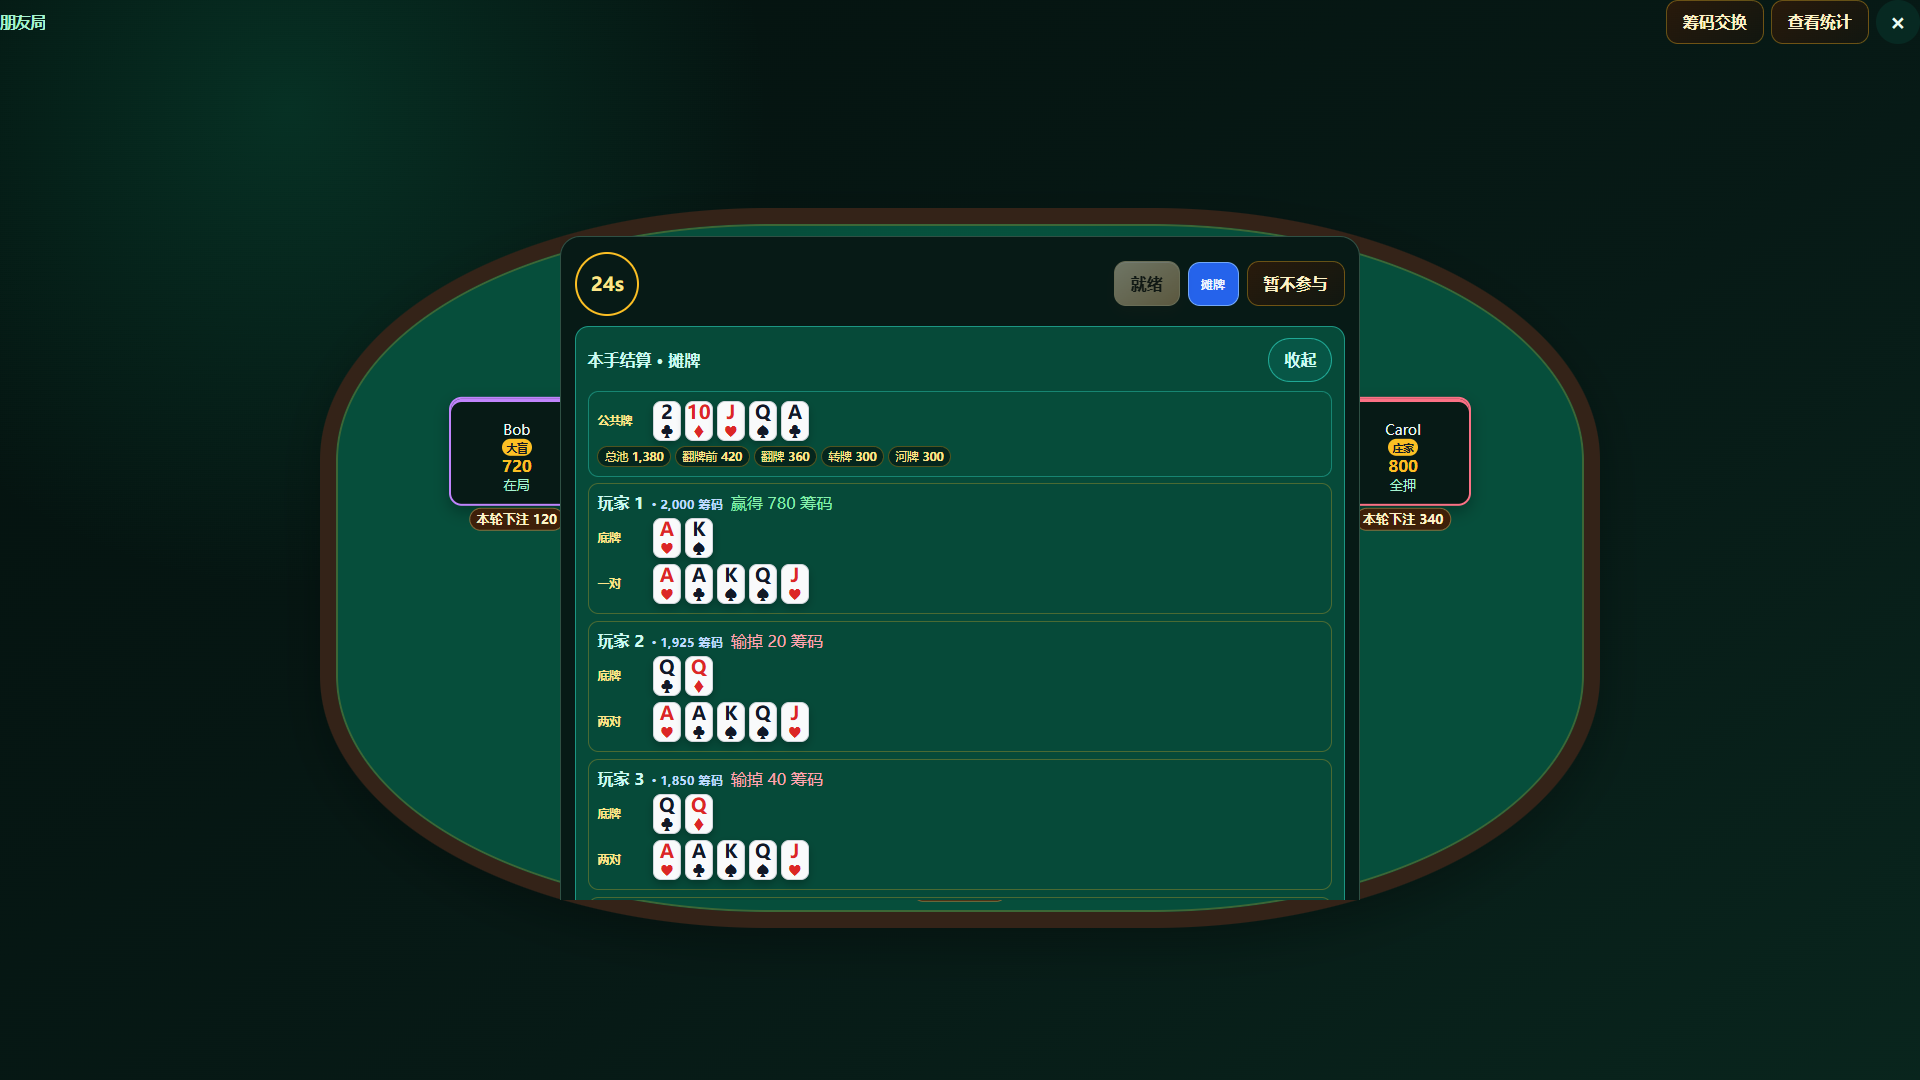
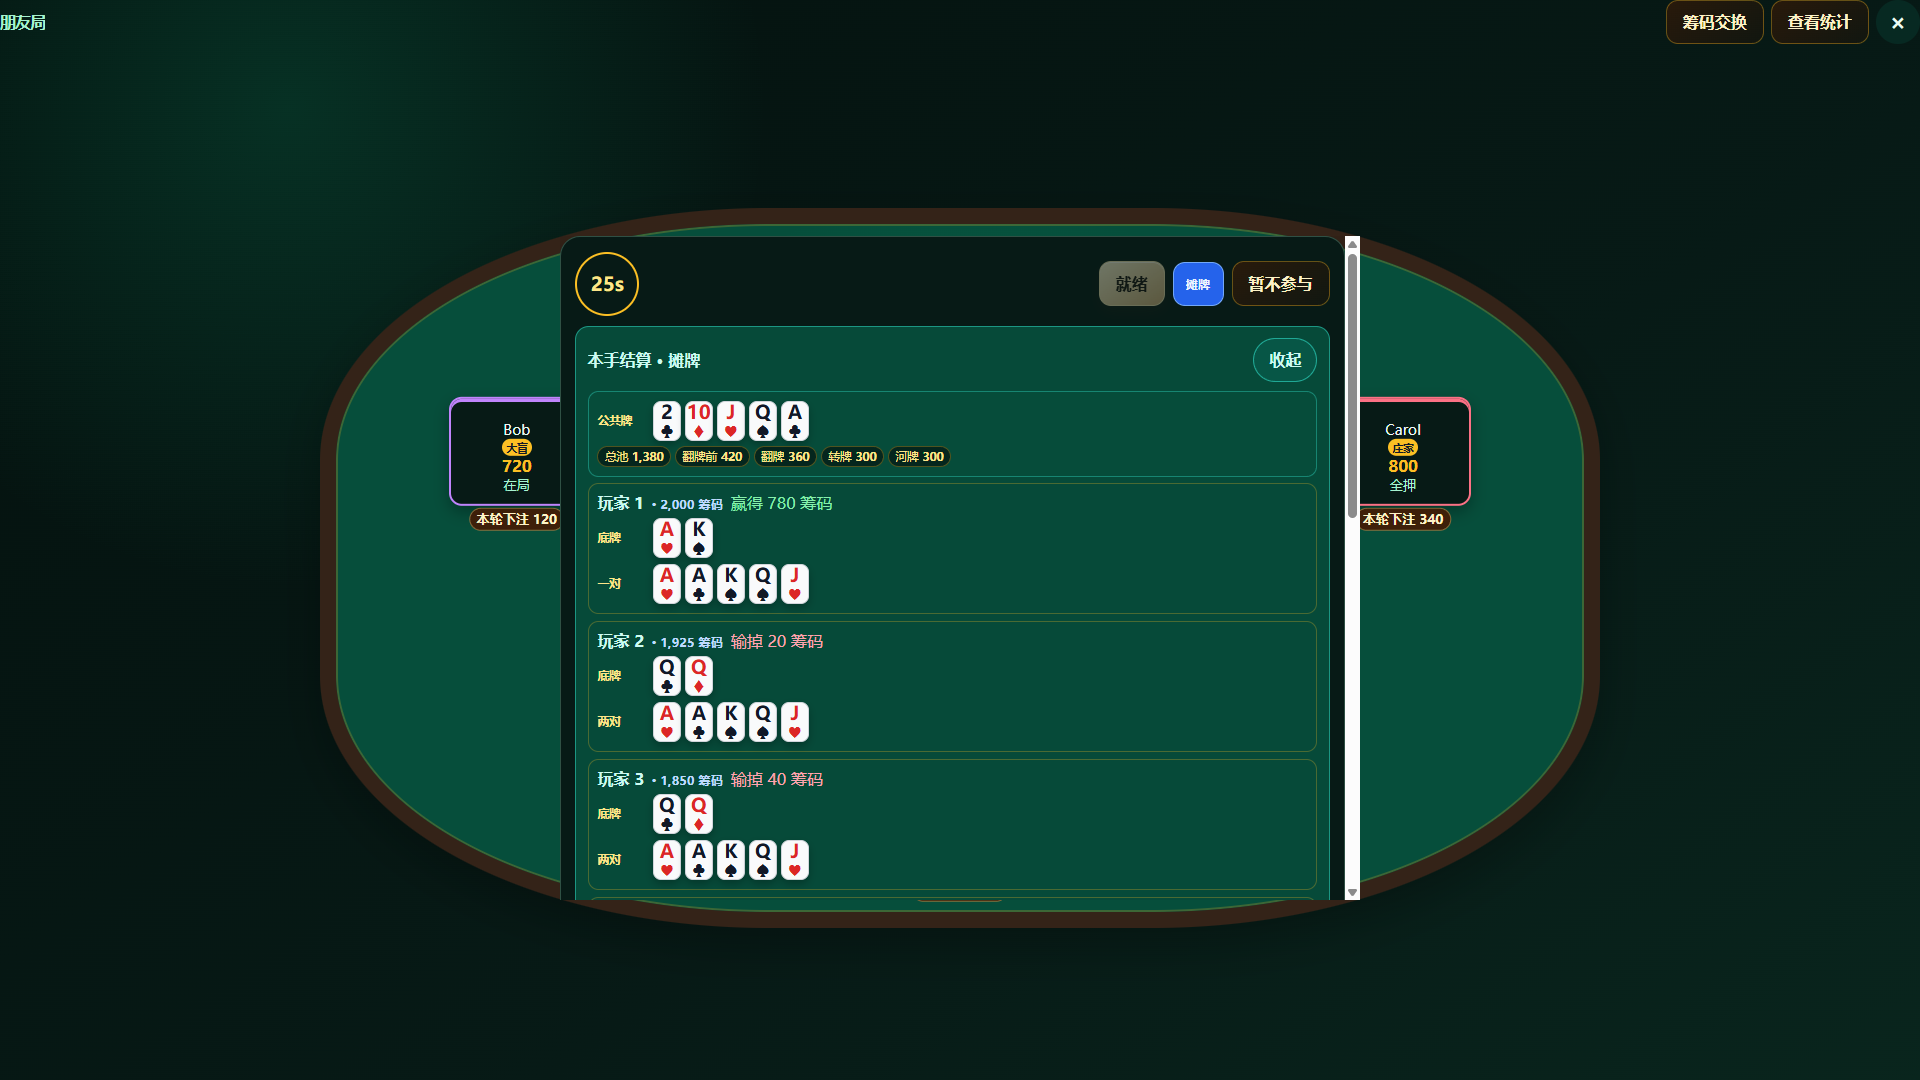
DOCS: 优化 README 搜索信息与界面预览

Changed region(s): [[0.5625, 0.2139, 0.7188, 0.8556]]

diff --git a/README.md b/README.md
@@ -1,36 +1,77 @@
-# Texas Holdem
+# Texas Holdem：局域网 / 虚拟局域网联机德州扑克
 
-> 面向朋友局的本地优先局域网德州扑克。
+> 开源、自托管、无需账号的朋友局无限注德州扑克；Windows 房主，桌面与手机浏览器均可通过 LAN 或 EasyTier 虚拟局域网加入。
 
 [![Quality](https://github.com/LeonemZhang/Texas_Holdem/actions/workflows/quality.yml/badge.svg)](https://github.com/LeonemZhang/Texas_Holdem/actions/workflows/quality.yml)
 [![Latest Release](https://img.shields.io/github/v/release/LeonemZhang/Texas_Holdem?display_name=tag&sort=semver)](https://github.com/LeonemZhang/Texas_Holdem/releases/latest)
 ![Platform](https://img.shields.io/badge/platform-Windows%2010%2F11%20x64-0078d4)
 [![License: GPL-3.0-only](https://img.shields.io/badge/license-GPL--3.0--only-blue.svg)](./LICENSE)
 
-Texas Holdem 是一款供朋友通过实体局域网或虚拟局域网游玩的无限注德州扑克游戏。房主使用 Windows 客户端运行权威房间服务，其他玩家可以使用 Windows 客户端，或直接通过手机、电脑浏览器加入。
+Texas Holdem 是一款面向朋友局的开源、自托管无限注德州扑克（No-Limit Texas Hold'em）多人游戏。房主使用 Windows 客户端运行权威房间服务，其他玩家可以使用 Windows 客户端，或直接通过手机、电脑浏览器从实体局域网或 EasyTier 虚拟局域网加入。
 
-**English summary:** Texas Holdem is a local-first no-limit Hold'em game for friends. A Windows host runs the authoritative room service, while other players join from Windows or a browser over a physical LAN or a virtual LAN such as EasyTier. The project does not operate public matchmaking, accounts, payments, or real-money features.
+**English summary:** Texas Holdem is an open-source, self-hosted LAN multiplayer poker game for private no-limit Hold'em tables. A Windows host runs the authoritative room service, while other players join from Windows or a desktop/mobile browser over a physical LAN or a virtual LAN such as EasyTier. The project does not operate public matchmaking, accounts, payments, or real-money features.
 
 ## 界面预览
 
-<table>
-  <tr>
-    <td align="center"><strong>桌面端牌局</strong></td>
-    <td align="center"><strong>桌面端结算</strong></td>
-  </tr>
-  <tr>
-    <td><img src="docs/images/readme/desktop-gameplay.png" alt="桌面端牌局界面" /></td>
-    <td><img src="docs/images/readme/desktop-settlement.png" alt="桌面端结算界面" /></td>
-  </tr>
-  <tr>
-    <td align="center"><strong>手机端牌局</strong></td>
-    <td align="center"><strong>手机端结算</strong></td>
-  </tr>
-  <tr>
-    <td align="center"><img src="docs/images/readme/mobile-gameplay.png" alt="手机端牌局界面" width="393" /></td>
-    <td align="center"><img src="docs/images/readme/mobile-settlement.png" alt="手机端结算界面" width="393" /></td>
-  </tr>
-</table>
+### 牌局
+
+<p align="center">
+  <strong>桌面端 · 1920×1080</strong><br />
+  <img src="docs/images/readme/desktop-gameplay.png" alt="桌面端牌局界面" />
+</p>
+
+<p align="center">
+  <strong>手机端 · 393×852</strong><br />
+  <img src="docs/images/readme/mobile-gameplay.png" alt="手机端牌局界面" width="393" />
+</p>
+
+### 本手结算
+
+<p align="center">
+  <strong>桌面端 · 1920×1080</strong><br />
+  <img src="docs/images/readme/desktop-settlement.png" alt="桌面端结算界面" />
+</p>
+
+<p align="center">
+  <strong>手机端 · 393×852</strong><br />
+  <img src="docs/images/readme/mobile-settlement.png" alt="手机端结算界面" width="393" />
+</p>
+
+### 大厅与座位管理
+
+<p align="center">
+  <strong>桌面端 · 1920×1080</strong><br />
+  <img src="docs/images/readme/desktop-lobby.png" alt="桌面端大厅与座位管理界面" />
+</p>
+
+<p align="center">
+  <strong>手机端 · 393×852</strong><br />
+  <img src="docs/images/readme/mobile-lobby.png" alt="手机端大厅与座位管理界面" width="393" />
+</p>
+
+### 牌局统计
+
+<p align="center">
+  <strong>桌面端 · 1920×1080</strong><br />
+  <img src="docs/images/readme/desktop-statistics.png" alt="桌面端牌局统计界面" />
+</p>
+
+<p align="center">
+  <strong>手机端 · 393×852</strong><br />
+  <img src="docs/images/readme/mobile-statistics.png" alt="手机端牌局统计界面" width="393" />
+</p>
+
+### 筹码交换
+
+<p align="center">
+  <strong>桌面端 · 1920×1080</strong><br />
+  <img src="docs/images/readme/desktop-chip-exchange.png" alt="桌面端筹码交换界面" />
+</p>
+
+<p align="center">
+  <strong>手机端 · 393×852</strong><br />
+  <img src="docs/images/readme/mobile-chip-exchange.png" alt="手机端筹码交换界面" width="393" />
+</p>
 
 ## 核心功能
 
